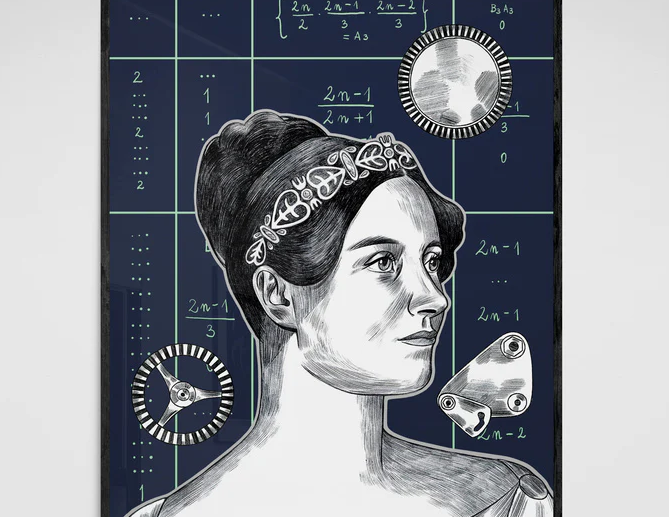
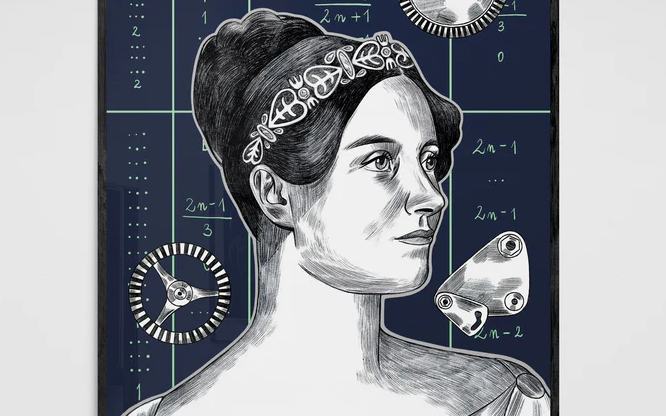
S3G4

diff --git a/style/index.css b/style/index.css
@@ -1,85 +1,165 @@
-html{
+html {
     font-size: 16px;
-    background-color: black;
-    color:whitesmoke;
-    width:100vw;
+    background-color: rgb(53, 53, 53);
+    color: whitesmoke;
+    
     height: 100vh;
 }
-body{
-    margin:0;
+
+body {
+    margin: 0;
     font-family: 'Roboto Mono';
 }
-.flex-container{
-    background-color: gray;
+
+.flex-container {
+    background-color: rgb(73, 73, 73);
     padding: 1rem 2rem;
-    height:100px;
-    margin-top:1rem;
+    height: 6rem;
+    margin-top: 1rem;
 }
-h1{
-    display:block;
-    margin-top: 0;;
+header{
+    text-align: center;
 }
-nav{
-    display: block;
+
+h1 {
+    display: flex;
+    margin-top: 0;
 }
+
+nav {
+    display: flex;
+}
+
 nav a {
     text-decoration: none;
-    padding:0.5rem;
+    padding: 0.5rem;
     background-color: white;
-    color:orange;
+    color: rgb(58, 58, 58);
 }
-.half-container{
+
+.half-container {
     display: inline-block;
-    width: 48%;
+    width: 42%;
 }
+
 .half-container img {
     width: 100%;
+    margin-left: 3rem;
 }
-.half-container a{
+
+.half-container a {
     background-color: white;
-    color:black;
-    padding:1rem;
+    color: black;
+    padding: 1rem;
     text-decoration: none;
     margin-top: 2%;
     margin-bottom: 2%;
-    display:inline-block;
+    display: inline-block;
 }
-.half-container:nth-child(2){
-    padding:0 5%;
+
+.half-container:nth-child(2) {
+    padding: 0 5%;
 }
-.first-container{
-    display:flex;
+
+.first-container {
+    display: flex;
     justify-content: space-between;
     align-items: flex-end;
-    padding-top:2rem;
+    padding-top: 2rem;
 }
-.container-gallery  {
+
+.container-gallery {
     display: flex;
     flex-wrap: wrap;
     justify-content: space-evenly;
     padding-top: 3rem;
 }
-.gallery-item{
-    display:inline-block;
-    width:22%;
+
+.gallery-item {
+    display: inline-block;
+    width: 22%;
     text-align: center;
     padding-bottom: 1%;
-    height:400px;
+    height: 80%;
 }
-.gallery-item img{
-    width:90%;
-    height: 70%;
+
+.gallery-item img {
+    width: 90%;
+    height: 90%;
 }
-footer{
+
+footer {
     text-align: center;
     background-color: gray;
-    height:8rem;
+    height: 8rem;
     font-size: 1.25rem;
     padding: .5rem;
 }
-footer a{
+
+footer a {
     padding: 10px 20px;
-    background:white;
+    background: white;
     text-decoration: none;
-    color:black;
+    color: black;
+}
+
+@media screen and (max-width: 620px) {
+    html {
+        font-size: 16px;
+    }
+
+    .flex-container {
+        background-color: rgb(73, 73, 73);
+        padding: 1rem 2rem;
+        height: 13rem;
+        margin: 0;
+    }
+
+    h1 {
+        text-align: justify;
+        font-size: 2rem;
+        display: inline-block;
+    }
+
+    nav {
+        display: flex;
+        flex-direction: column;
+        width: 30%;
+        margin: 0 auto;
+    }
+
+    nav a {
+        text-decoration: none;
+        padding: 0.5rem;
+        background-color: white;
+        color: rgb(58, 58, 58);
+        text-align: center;
+    }
+    .first-container {
+        flex-direction: column;
+        align-items: center;
+        padding-top: 0.75rem;
+    }
+    .half-container img{
+        justify-content: center;
+        margin: 0 auto;
+    }
+    .half-container p{
+        text-align: justify;
+    }
+    .half-container {
+        width: 90%;
+        display:flex;
+        flex-direction: column;
+        align-items: center;
+    }
+    .container-gallery{
+        display:flex;
+        flex-direction: row;
+    }
+    .gallery-item{
+        width: 50%;
+        height: 50%;
+    }
+    
 }

diff --git a/index.html b/index.html
@@ -16,7 +16,7 @@
     
     <div class="flex-container">
         <header class="header-contents">
-            <h1>Rumeysa AKGÜN İLERİ</h1>
+            <h1>Rumeysa İLERİ</h1>
             <nav>
                 <a href="">Anasayfa</a>
                 <a href="">Hakkında</a>
@@ -31,7 +31,7 @@
             <img src="img/adaLovalace.png">
         </div>
         <div class="half-container">
-            <h2>İsim</h2>
+            <h2>Rumeysa İleri</h2>
             <a href="Projeler">Projeler</a>
             <p>Lorem ipsum dolor, sit amet consectetur adipisicing elit. Odio excepturi fugiat velit est omnis. Odio
                 veritatis, amet soluta necessitatibus hic, reiciendis totam voluptate esse ipsa atque doloribus? Minima,
@@ -73,7 +73,7 @@
         </div>
     </section>
     <footer>
-        <h4>Gördüklerinizden memnun musunuz?</h4>
+        <h4>Gördüklerinden memnun musun?</h4>
         <a href="contact.html">Bana Ulaş</a>
     </footer>
 
